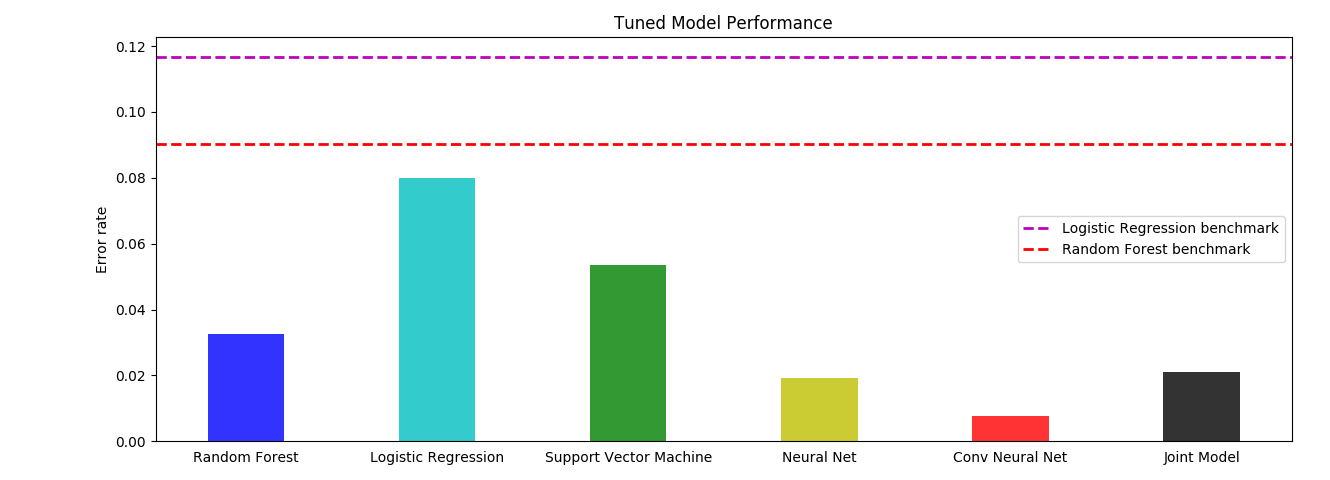
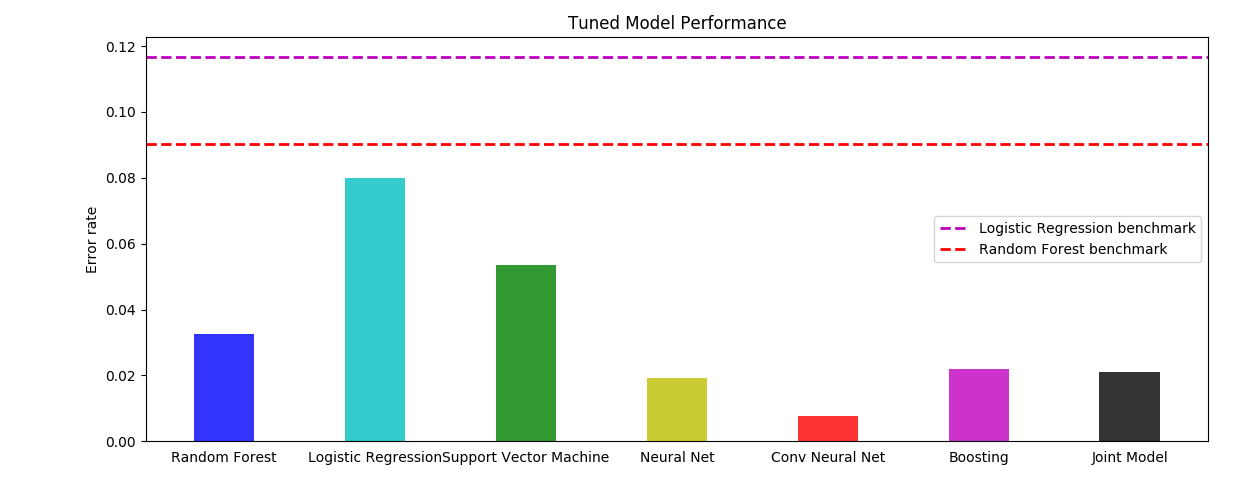
Added boosting.

diff --git a/main.py b/main.py
@@ -20,8 +20,12 @@ from keras import optimizers
 from keras.models import load_model
 from keras.utils import to_categorical
 
+# Boosting model
+import lightgbm as lgb
+
 
 def main():
+    
     # Get data.
     # X[i] is a 784-dim vector of [0,1] greyscale values.
     # Y[i] is a scalar indicating digit class. 
@@ -59,6 +63,15 @@ def main():
         NN.save('2111_fulltrain.h5')
     else:
         NN = load_model('2111_fulltrain.h5')
+
+
+    # Boosting classifier. Not used in committee model.
+    # Load data into LBGDataset
+    train_dataset = lgb.Dataset(x_train[:n_train], label=y_train[:n_train])
+    param = {'num_leaves':47, 'num_trees':150, 'metric':'multi_logloss', 'objective': 'multiclass', 'num_class':10}
+    num_rounds = 20
+    print "Fitting boosting classifer..."
+    bst = lgb.train(param, train_dataset, num_rounds)
 
     # Convolutional neural network
     # Validation accuracy: 0.9816
@@ -136,6 +149,10 @@ def main():
     CNN_preds_single = np.argmax(CNN_preds,axis=1)
     CNN_acc = np.sum(np.equal(CNN_preds_single, y_test)) / float(n_predict)
 
+    print "Predicting boosting..."
+    preds = np.argmax(bst.predict(x_test[:n_predict]), axis=1)
+    BST_acc = np.sum(np.equal(preds, y_test[:n_predict])) / float(n_predict)
+
     print "Gathering predictions and verifying..."
     preds = np.argmax(RF_preds + LR_preds + SVM_preds + NN_preds + CNN_preds, axis=1)
     joint_acc = np.sum(np.equal(preds, y_test)) / float(n_predict)
@@ -145,6 +162,7 @@ def main():
     print "SVM val %f" % (SVM_acc)
     print "NN val %f" % (NN_acc)
     print "CNN val %f" % (CNN_acc)
+    print "BST val %f" % (BST_acc)
     print "Joint val %f" % (joint_acc)
     
 
@@ -197,13 +215,14 @@ def build_cnn(n_classes, input_shape):
 def make_histogram():
     # create bar plot of rmse for different methods/features used
     # data to plot
-    n_groups = 6
-    acc_rf = 0.9674
-    acc_lr = 0.9201
-    acc_svm = 0.9466
-    acc_nn = 0.9807
-    acc_cnn = 0.9922
-    acc_joint = 0.9789
+    n_groups = 7
+    err_rf = 1 -0.9674
+    err_lr = 1 - 0.9201
+    err_svm = 1 - 0.9466
+    err_nn = 1 - 0.9807
+    err_cnn = 1 - 0.9922
+    err_joint = 1 - 0.9789
+    err_boost = 1 - 0.9781
     
     # create plot
     fig, ax = plt.subplots()
@@ -211,27 +230,31 @@ def make_histogram():
     bar_width = 0.4
     opacity = 0.8
     
-    rects1 = plt.bar(0, acc_rf, bar_width,
+    rects1 = plt.bar(0,  err_rf, bar_width,
                     alpha=opacity,
                     color='b')
     
-    rects2 = plt.bar(1, acc_lr, bar_width,
+    rects2 = plt.bar(1, err_lr, bar_width,
                     alpha=opacity,
                     color='c')
 
-    rects3 = plt.bar(2, acc_svm, bar_width,
+    rects3 = plt.bar(2, err_svm, bar_width,
                     alpha=opacity,
                     color='g')
 
-    rects4 = plt.bar(3, acc_nn, bar_width,
+    rects4 = plt.bar(3, err_nn, bar_width,
                     alpha=opacity,
                     color='y')
 
-    rects5 = plt.bar(4, acc_cnn, bar_width,
+    rects5 = plt.bar(4, err_cnn, bar_width,
                     alpha=opacity,
                     color='r')
     
-    rects6 = plt.bar(5, acc_joint, bar_width,
+    rects7 = plt.bar(5, err_boost, bar_width,
+                    alpha=opacity,
+                    color='m')
+    
+    rects7 = plt.bar(6, err_joint, bar_width,
                     alpha=opacity,
                     color='k')
 
@@ -242,13 +265,12 @@ def make_histogram():
         top='off')         # ticks along the top edge are off
         
     #plt.xlabel('Model')
-    plt.ylabel('Accuracy')
+    plt.ylabel('Error rate')
     plt.title('Tuned Model Performance')
-    plt.xticks(index, ('Random Forest', 'Logistic Regression', 'Support Vector Machine', 'Neural Net', 'Conv Neural Net', 'Joint Model'))
+    plt.xticks(index, ('Random Forest', 'Logistic Regression', 'Support Vector Machine', 'Neural Net', 'Conv Neural Net', 'Boosting', 'Joint Model'))
 
-    plt.axhline(y=0.8832, linewidth=2, linestyle='--', color='m', label='Logistic Regression benchmark')
-    plt.axhline(y=0.9098, linewidth=2, linestyle='--', color='r', label='Random Forest benchmark')
-    plt.axhline(y=1, linewidth=2,  linestyle='--', color='k', label='100% line')
+    plt.axhline(y=1 - 0.8832, linewidth=2, linestyle='--', color='m', label='Logistic Regression benchmark')
+    plt.axhline(y=1 - 0.9098, linewidth=2, linestyle='--', color='r', label='Random Forest benchmark')
 
     # Shrink current axis's height by 20% on the bottom
     box = ax.get_position()

diff --git a/README.md b/README.md
@@ -5,6 +5,7 @@ Here's an approach to a canonical machine learning problem: classifying handwrit
 * Logistic regression classifer
 * Support vector machine classifier
 * Neural network (multi-layer perceptron)
+* Boosting with LightGBM
 * Convolutional neural network
 * Joint voting classifer using the above five models.
 
@@ -16,7 +17,7 @@ Each of these models have a set of hyperparameters that are specified before tra
 
 ### Random forest
 
-We can train a random forest classifier from the sklearn library and gridsearch to tune the hyperparameters `n_estimators`, `max_depth`, and `max_features`, finding that values of `n_estimators` = 47, `max_depth` = 130, and `max_features` = `sqrt` seem to give the best validation scores.
+We can train a random forest decision tree classifier from the sklearn library and gridsearch to tune the hyperparameters `n_estimators`, `max_depth`, and `max_features`, finding that values of `n_estimators` = 47, `max_depth` = 130, and `max_features` = `sqrt` seem to give the best validation scores.
 
 ### Logistic regression
 
@@ -29,6 +30,10 @@ We can also train a support vector machine to perform classification, tuning the
 ### Neural network
 
 We can also build a classic MLP neural network via Keras to perform classification. We explore a variety of network structures, regularization parameters, activation functions, and dropout factors to tune the network, settling on a deep neural network (4 hidden layers, one of size 1568 and three of size 784) and tanh activation.
+
+### Boosting classifiers
+
+We also use LightGBM to train boosting classifiers, similar process as above.
 
 ## Other models
 
@@ -54,6 +59,7 @@ Logistic regression | 0.9201 | 0.0799
 Support vector machine | 0.9466 | 0.0534 
 Neural network | 0.9807 | 0.0193
 Conv. neural network | 0.9922 | 0.0078
+Boosting | 0.9781 | 0.0219
 Joint model | 0.9789 | 0.0211
 
 Here is a plot of the error rate for each model:
